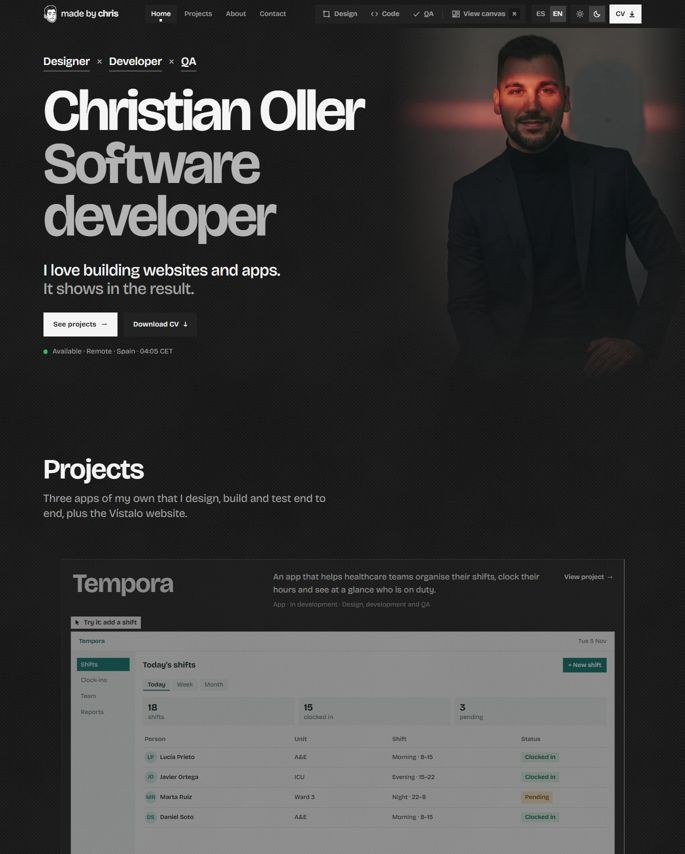
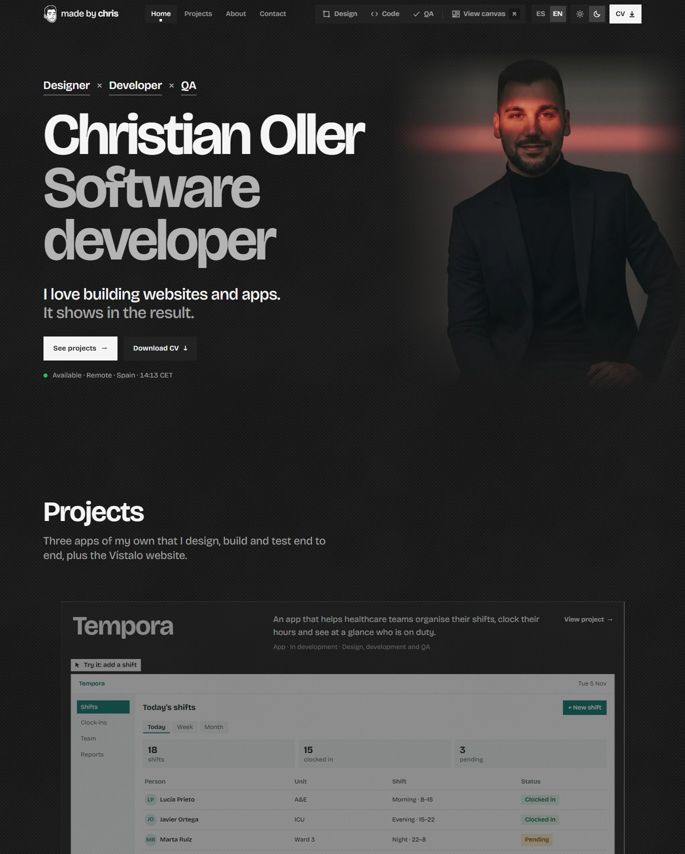
docs: close the hero photo adjustments and refresh the home thumbnails

diff --git a/docs/referencias/roadmap-prototipo-def.md b/docs/referencias/roadmap-prototipo-def.md
@@ -801,7 +801,22 @@ igual: un punto por parada y la casilla se marca con su visto bueno.
     alto de la foto; en móvil, del 0 al 8 %). El pelo no lo acusa porque es del tono de la hoja.
   - Abajo, menos fundido: la figura aguanta sólida hasta el 71 % (antes, 62 %); en móvil, hasta el
     58 % (antes, 48 %). El punto donde se desvanece del todo no cambia.
-  - Pendiente: repetir las miniaturas de la home en oscuro (`es-home-dark.jpg`, `en-home-dark.jpg`).
+  - Las miniaturas de la home se repitieron al cerrar el punto siguiente.
+- [x] **Hero: la misma foto en los dos modos y aire arriba** (cerrado por Christian el 20 nov: "esto
+  de diseño ya está todo", no quiere tocar más la home por ahora):
+  - La foto es la misma en claro y en oscuro (`card-dark.jpg`): la de la luz roja con su pared gris,
+    pero sin la sombra que la figura proyectaba en la pared. Sale de `card.jpg` con
+    `.taste-skill/recorte/sin-sombra.cjs`, que rehace la pared de la derecha. La versión recortada
+    sobre transparente (`card-light.webp`) ya no se usa en el hero; el archivo y su guion siguen.
+  - Se probó sentar la figura recortada sobre una línea de base: no le gustó.
+  - En móvil, el encuadre, el fundido y la altura a la que empieza el texto son los mismos en los
+    dos modos (antes la foto oscura era más alta).
+  - En escritorio, texto y foto bajan juntos unos 48 px respecto a la barra (`--hero-top`), y el
+    hero llega al menos hasta donde acaba la foto.
+  - Fundidos en escritorio: en oscuro, los de antes (anchos, casi no se notan). En claro, una curva
+    suave en los cuatro lados. **No se ven iguales**: la pared oscura contrasta mucho con la hoja
+    clara y el fundido se nota como un halo. Quedó propuesto y sin respuesta aclarar la pared en la
+    versión clara para igualarlas; si vuelve a la home, empezar por ahí.
 
 ## Fase técnica (después del 10 de diseño)
 
